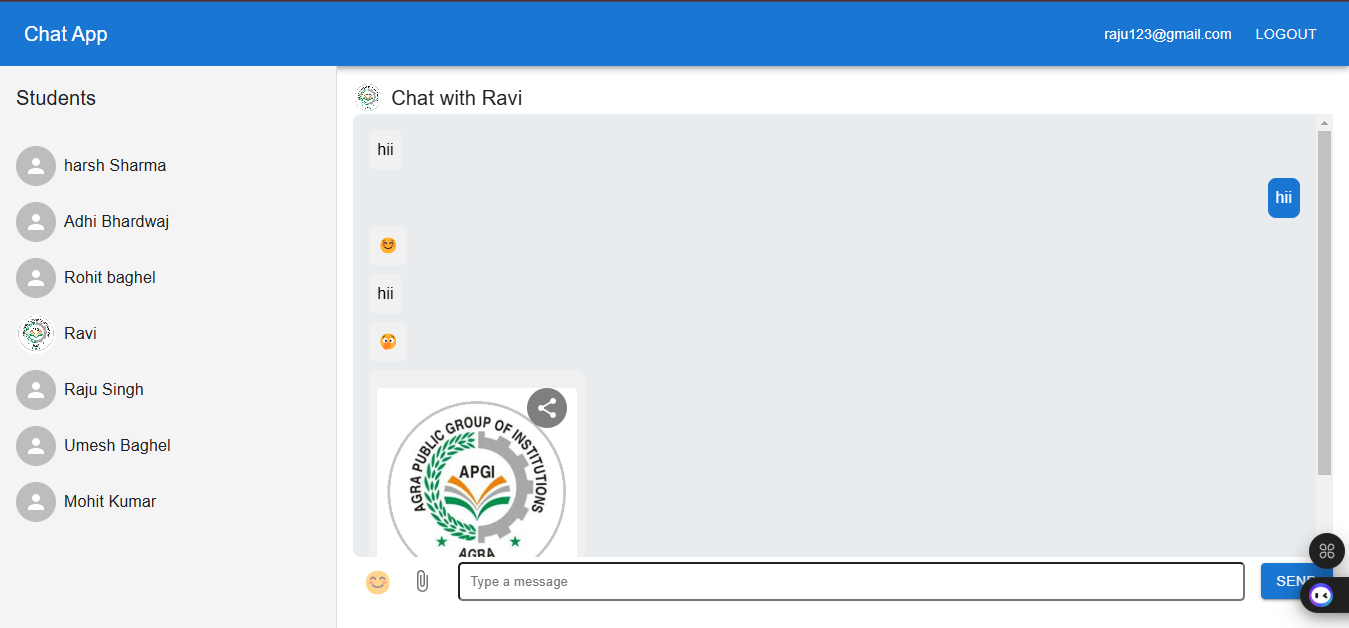
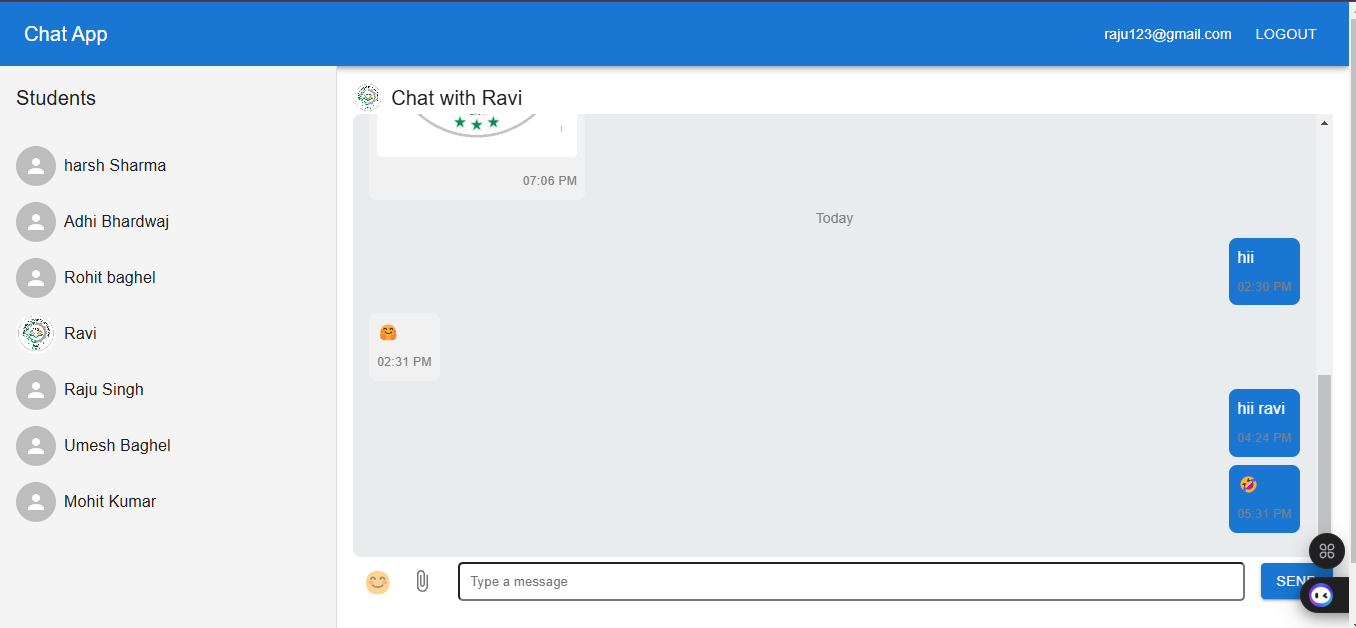
Add files via upload

diff --git a/src/components/Chat.jsx b/src/components/Chat.jsx
@@ -17,10 +17,12 @@ import {
   DialogTitle,
 } from "@mui/material";
 import Picker from '@emoji-mart/react';
+
+import { format, isToday, isYesterday } from "date-fns";
 import data from '@emoji-mart/data';
 import { auth, database } from "../firebase";
 import { signOut } from "firebase/auth";
-import { ref, onValue, push } from "firebase/database";
+import { ref, onValue, push, update, remove } from "firebase/database";
 import { generateChatId } from "../utils/generateChatId";
 import AttachFileIcon from "@mui/icons-material/AttachFile";
 import ShareIcon from "@mui/icons-material/Share";
@@ -33,6 +35,10 @@ import { Worker, Viewer } from "@react-pdf-viewer/core";
 import '@react-pdf-viewer/core/lib/styles/index.css';
 import PersonIcon from "@mui/icons-material/Person";
 import Avatar from "@mui/material/Avatar";
+import ContentCopyIcon from "@mui/icons-material/ContentCopy";
+import EditIcon from "@mui/icons-material/Edit";
+import DeleteIcon from "@mui/icons-material/Delete";
+import { Menu, MenuItem } from "@mui/material";
 
 const CLOUDINARY_UPLOAD_PRESET = import.meta.env.VITE_CLOUDINARY_UPLOAD_PRESET;
 const CLOUDINARY_CLOUD_NAME = import.meta.env.VITE_CLOUDINARY_CLOUD_NAME;
@@ -49,6 +55,54 @@ const Chat = ({ user, students }) => {
   const fileInputRef = useRef();
   const messagesEndRef = useRef(null);
   const [isEmojiPickerOpen, setEmojiPickerOpen] = useState(false);
+
+  // Function to copy message to clipboard
+const handleCopyMessage = (message) => {
+  navigator.clipboard.writeText(message.content).then(() => {
+    alert("Message copied!");
+  });
+};
+
+// Function to delete a message
+const handleDeleteMessage = async () => {
+  if (!editingMessage) return;
+  const chatId = generateChatId(user.uid, currentRecipient.id);
+  const messageRef = ref(database, `messages/${chatId}/${editingMessage.id}`);
+
+  try {
+    await remove(messageRef);
+    setEditingMessage(null);
+    setContextMenu(null);
+  } catch (error) {
+    console.error("Error deleting message:", error);
+  }
+};
+
+  const groupMessagesByDate = (messages) => {
+    const grouped = {};
+    messages.forEach((msg) => {
+      const messageDate = new Date(msg.timestamp);
+      let dateKey = format(messageDate, "yyyy-MM-dd");
+  
+      if (isToday(messageDate)) {
+        dateKey = "Today";
+      } else if (isYesterday(messageDate)) {
+        dateKey = "Yesterday";
+      } else {
+        dateKey = format(messageDate, "MMMM dd, yyyy"); // Example: February 10, 2025
+      }
+  
+      if (!grouped[dateKey]) {
+        grouped[dateKey] = [];
+      }
+      grouped[dateKey].push(msg);
+    });
+  
+    return grouped;
+  };
+  
+  const groupedMessages = groupMessagesByDate(messages);
+  
 
   useEffect(() => {
     if (currentRecipient) {
@@ -228,143 +282,94 @@ const Chat = ({ user, students }) => {
                   borderRadius: 2,
                 }}
               >
-                {messages.map((msg) => (
-                  <Box
-                    key={msg.id}
-                    sx={{
-                      display: "flex",
-                      justifyContent:
-                        msg.sender === user.uid ? "flex-end" : "flex-start",
-                      mb: 1,
-                    }}
-                  >
-                    <Box
-                      sx={{
-                        bgcolor: msg.sender === user.uid ? "#1976d2" : "#f1f1f1",
-                        color: msg.sender === user.uid ? "#fff" : "#000",
-                        p: 1,
-                        borderRadius: 2,
-                      }}
-                    >
-                      {msg.content}
-                      {msg.file && (
+                {Object.entries(groupedMessages).map(([date, msgs]) => (
+                  <Box key={date}>
+                    <Typography variant="subtitle2" sx={{ textAlign: "center", my: 1, color: "gray" }}>
+                      {date}
+                    </Typography>
+                    {msgs.map((msg) => (
+                      <Box
+                        key={msg.id}
+                        sx={{
+                          display: "flex",
+                          flexDirection: "column",
+                          alignItems: msg.sender === user.uid ? "flex-end" : "flex-start",
+                          mb: 1,
+                        }}
+                      >
+                        <Box
+                          sx={{
+                            bgcolor: msg.sender === user.uid ? "#1976d2" : "#f1f1f1",
+                            color: msg.sender === user.uid ? "#fff" : "#000",
+                            p: 1,
+                            borderRadius: 2,
+                            maxWidth: "60%",
+                          }}
+                        >
+                          {msg.content}
+                          {msg.file && (
                         <a href={msg.file} download>
                           {msg.fileType === "image" && (
-                            <Tooltip title="Share" arrow>
-                              <div style={{ position: "relative", display: "inline-block" }}>
-                                <img
-                                  src={msg.file}
-                                  alt="File"
-                                  style={{
-                                    width: "200px",
-                                    marginTop: "10px",
-                                    borderRadius: "5px",
-                                    cursor: "pointer",
-                                  }}
-                                />
-                                <IconButton
-                                  style={{
-                                    position: "absolute",
-                                    top: "10px",
-                                    right: "10px",
-                                    backgroundColor: "rgba(0, 0, 0, 0.5)",
-                                    color: "#fff",
-                                    borderRadius: "50%",
-                                  }}
-                                  onClick={() => alert("Share image")}
-                                >
-                                  <ShareIcon />
-                                </IconButton>
-                              </div>
-                            </Tooltip>
+                            <img
+                              src={msg.file}
+                              alt="File"
+                              style={{
+                                width: "200px",
+                                marginTop: "10px",
+                                borderRadius: "5px",
+                                cursor: "pointer",
+                              }}
+                            />
                           )}
-                          {msg.fileType === "audio" && (
-                            <Tooltip title="Share" arrow>
-                              <div style={{ position: "relative", display: "inline-block" }}>
-                                <audio controls style={{ marginTop: "10px" }}>
-                                  <source src={msg.file} />
-                                </audio>
-                                <IconButton
-                                  style={{
-                                    position: "absolute",
-                                    top: "10px",
-                                    right: "10px",
-                                    backgroundColor: "rgba(0, 0, 0, 0.5)",
-                                    color: "#fff",
-                                    borderRadius: "50%",
-                                  }}
-                                  onClick={() => alert("Share audio")}
-                                >
-                                  <ShareIcon />
-                                </IconButton>
-                              </div>
-                            </Tooltip>
-                          )}
-                          {msg.fileType === "video" && (
-                            <Tooltip title="Share" arrow>
-                              <div style={{ position: "relative", display: "inline-block" }}>
-                                <video
-                                  controls
-                                  style={{
-                                    width: "200px",
-                                    marginTop: "10px",
-                                    borderRadius: "5px",
-                                  }}
-                                >
-                                  <source src={msg.file} />
-                                </video>
-                                <IconButton
-                                  style={{
-                                    position: "absolute",
-                                    top: "10px",
-                                    right: "10px",
-                                    backgroundColor: "rgba(0, 0, 0, 0.5)",
-                                    color: "#fff",
-                                    borderRadius: "50%",
-                                  }}
-                                  onClick={() => alert("Share video")}
-                                >
-                                  <ShareIcon />
-                                </IconButton>
-                              </div>
-                            </Tooltip>
-                          )}
-                          {msg.fileType === "document" && (
-                            <Tooltip title="Share" arrow>
-                              <div style={{ position: "relative", display: "inline-block" }}>
-                                <div
-                                  style={{
-                                    padding: "10px",
-                                    backgroundColor: "#f1f1f1",
-                                    borderRadius: "5px",
-                                  }}
-                                >
-                                  <InsertDriveFileIcon />
-                                  Document
-                                </div>
-                                <IconButton
-                                  style={{
-                                    position: "absolute",
-                                    top: "10px",
-                                    right: "10px",
-                                    backgroundColor: "rgba(0, 0, 0, 0.5)",
-                                    color: "#fff",
-                                    borderRadius: "50%",
-                                  }}
-                                  onClick={() => alert("Share document")}
-                                >
-                                  <ShareIcon />
-                                </IconButton>
-                              </div>
-                            </Tooltip>
-                          )}
-                        </a>
-                      )}
-                    </Box>
+                            {msg.fileType === "audio" && (
+                              <audio controls style={{ marginTop: "10px" }}>
+                                <source src={msg.file} />
+                              </audio>
+                            )}
+                            {msg.fileType === "video" && (
+                              <video
+                                controls
+                                style={{
+                                  width: "200px",
+                                  marginTop: "10px",
+                                  borderRadius: "5px",
+                                }}
+                              >
+                                <source src={msg.file} />
+                              </video>
+                            )}
+                            {msg.fileType === "document" && (
+                              <Box
+                                sx={{
+                                  display: "flex",
+                                  alignItems: "center",
+                                  mt: 1,
+                                  p: 1,
+                                  bgcolor: "#fff",
+                                  borderRadius: "5px",
+                                  border: "1px solid #ddd",
+                                }}
+                              >
+                                <InsertDriveFileIcon sx={{ mr: 1 }} />
+                                Document
+                              </Box>
+                            )}
+                          </a>
+                        )}
+                          <Typography variant="caption" sx={{ display: "block", textAlign: "right", mt: 1, color: "gray" }}>
+                            {new Date(msg.timestamp).toLocaleTimeString([], { hour: "2-digit", minute: "2-digit" })}
+                          </Typography>
+                        </Box>
+                      </Box>
+                    ))}
                   </Box>
+                  
                 ))}
                 <div ref={messagesEndRef}></div>
               </Box>
+
+                
+              
 
               <Box display="flex" alignItems="center">
                 <input
@@ -448,9 +453,11 @@ const Chat = ({ user, students }) => {
                 multiple
                 onChange={handleFileChange}
               />
-
+            
 
             </>
+
+            
           ) : (
             <Typography variant="h6">Select a student to chat with</Typography>
           )}
